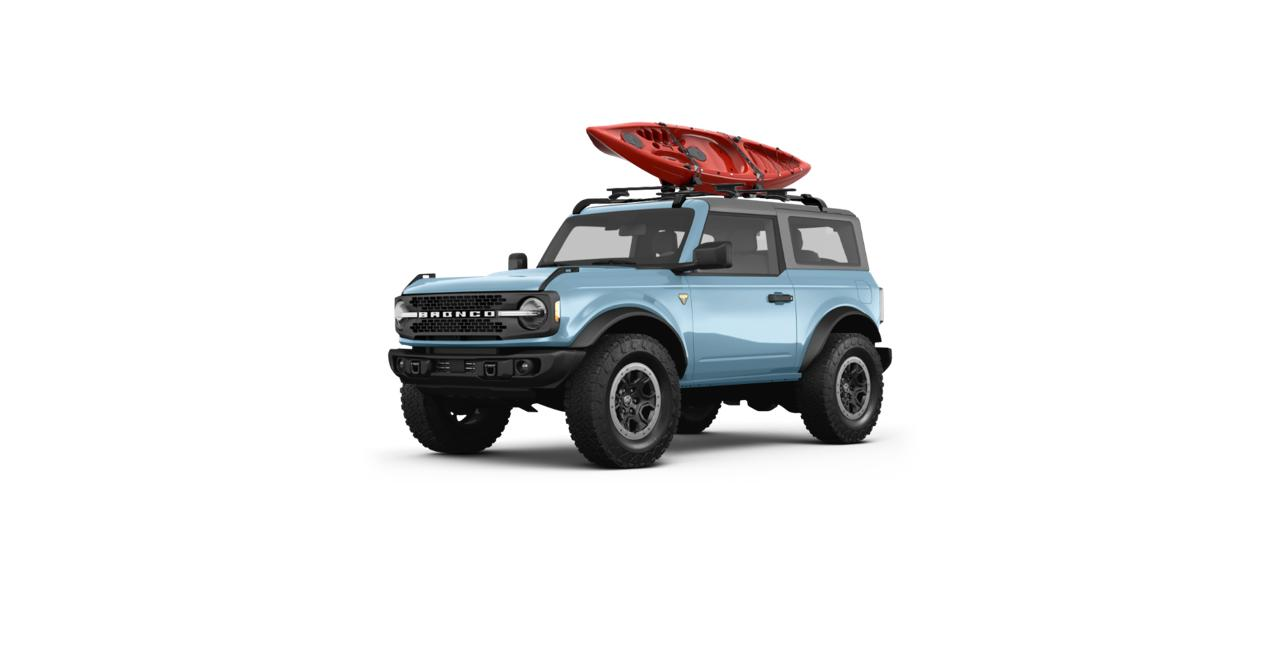
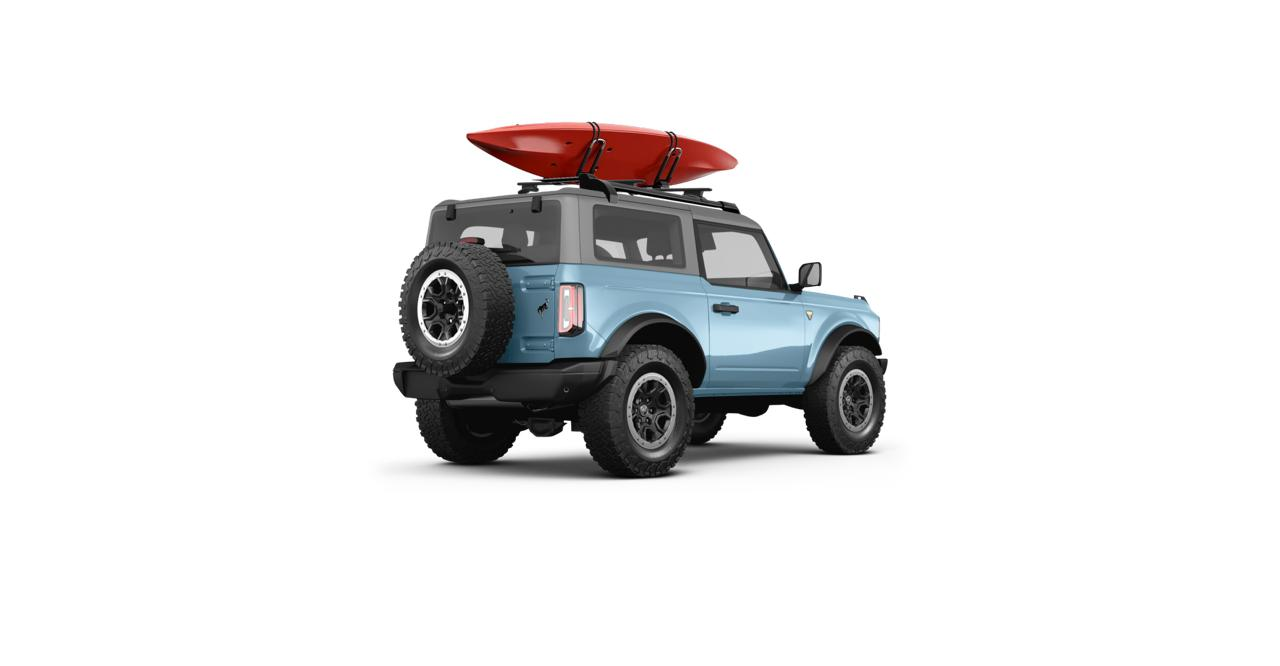
Replace Bronco images with HD clean renders — rear 3/4, side profile, rear 3/4

Changed region(s): [[0.2812, 0.1802, 0.7188, 0.7207]]

diff --git a/product.html b/product.html
@@ -1,7 +1,7 @@
 <!DOCTYPE html>
 <html lang="en">
 <head>
-<meta name="build" content="1776218411">
+<meta name="build" content="1776218546">
 <meta charset="UTF-8">
 <meta name="viewport" content="width=device-width,initial-scale=1.0">
 <title>Yakima® Rack Mounted Kayak Carrier w/o Lock | Accessories | Ford.com</title>
